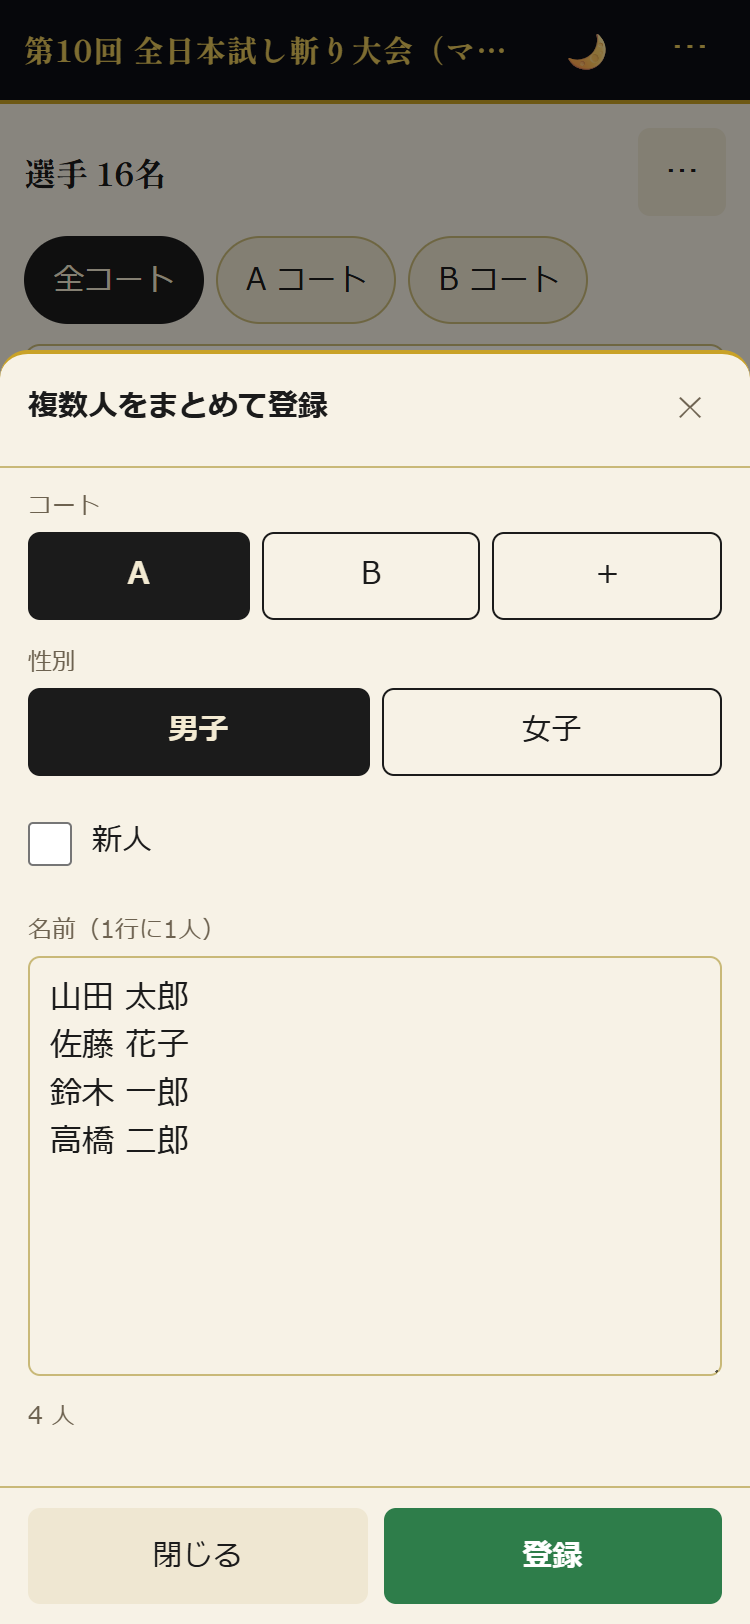
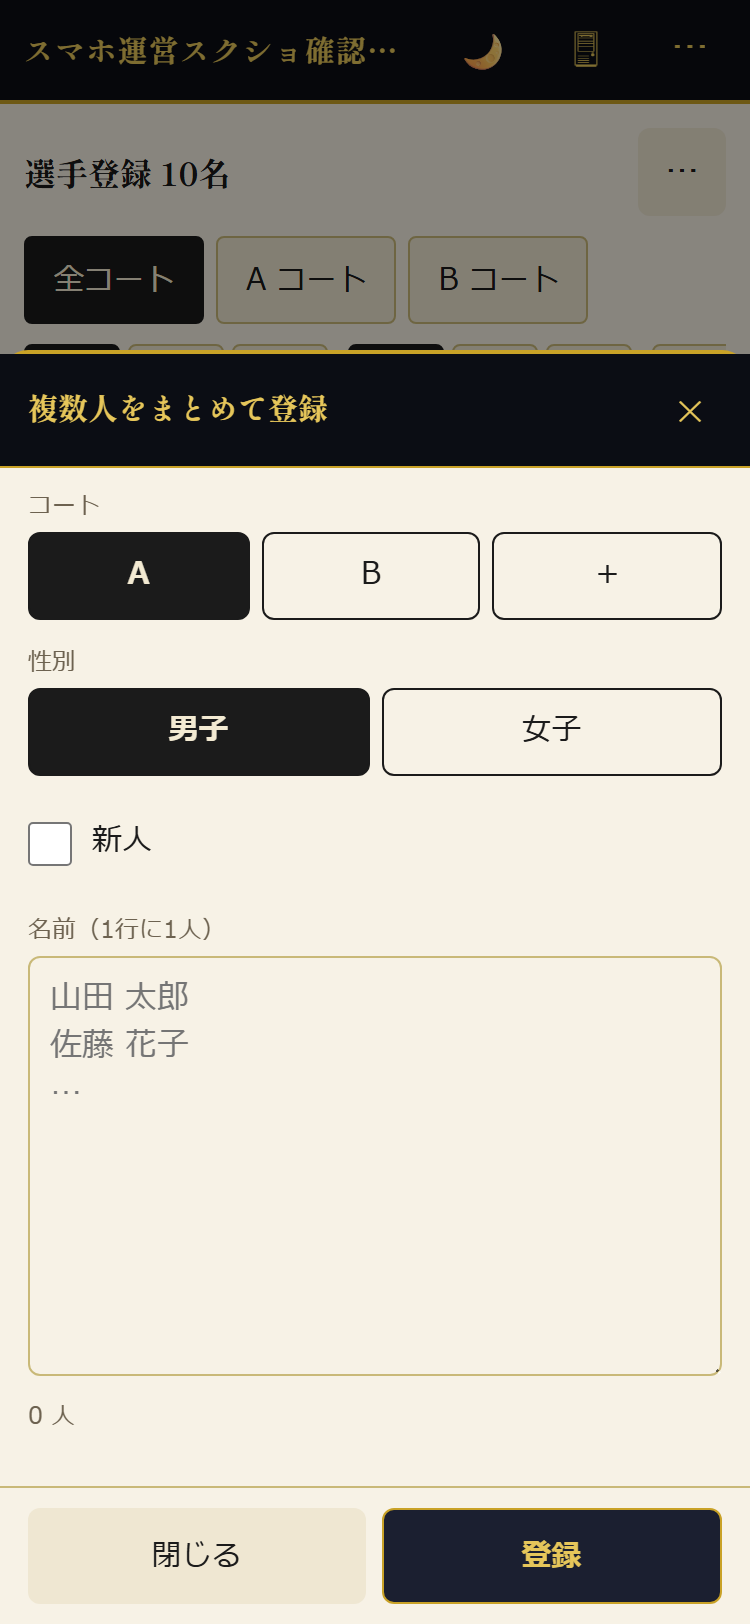
docs: スマホ運営のスクリーンショット10枚を撮り直す
admin_events / admin_new_event / admin_players / admin_players_menu /
admin_bulk / admin_player_form / admin_tech_sheet / admin_round /
admin_round_court_b / admin_results / admin_menu を現在のタブ名・画面で
撮り直す（375幅@2x、既存画像と同じ寸法）。確認用の大会2つ（選手5名・
ゼッケン/級位段位/レンタル入り・一巡目採点済み・二巡目生成済みの本会場、
アーカイブ確認用の1名大会）をAPI経由で作り、ヘッドレスChromeをCDPで
admin.html を開いて各タブ・シート・メニューを操作しながら撮影、確認後に
両方削除した（U の基本情報シート追加コミット fee278e が入るのを待ってから
実施）。

admin_events.png（📂 取り込む・⋯・アーカイブ欄）、admin_player_form.png
（ゼッケン・級位段位・レンタル）、admin_players.png（ゼッケン列）、
admin_menu.png（🏠 トップ・📝 基本情報・💾 大会をファイルに保存）の
figcaption と alt を更新。admin_round.png の figcaption の件数も新しい
撮影内容に合わせる。

diff --git a/help.html b/help.html
@@ -219,8 +219,8 @@
     </ul>
 
     <figure class="shot-mobile">
-      <img src="help/img/admin_events.png" loading="lazy" alt="運営画面の大会タブ。大会の一覧が並び、右上に「＋ 新規大会」ボタンがある。">
-      <figcaption>大会タブ。1件ごとに日付と人数が出ます。右の <span class="ui">⋯</span> から <span class="ui">💾 ファイルに保存</span> と <span class="ui">🗑 削除</span> を選べます。</figcaption>
+      <img src="help/img/admin_events.png" loading="lazy" alt="運営画面の大会タブ。見出しの右に「📂 取り込む」「＋ 新規大会」の2つのボタンがあり、大会ごとの行の右端に「⋯」がある。">
+      <figcaption>大会タブ。1件ごとに日付と人数が出ます。右の <span class="ui">⋯</span> から <span class="ui">💾 ファイルに保存</span> と <span class="ui">🗑 削除</span> を選べます。見出しの <span class="ui">📂 取り込む</span> はほかのサーバーで作った大会の取り込みです。アーカイブ済みの大会があるときは、一覧の末尾に <span class="ui">アーカイブ（n 件）</span> の見出しでまとまって出ます。</figcaption>
     </figure>
 
     <figure class="shot-mobile">
@@ -241,8 +241,8 @@
     <p>タブで <span class="ui">選手登録</span> を選びます。登録のしかたは3通りあります。</p>
 
     <figure class="shot-mobile">
-      <img src="help/img/admin_players.png" loading="lazy" alt="選手登録タブ。絞り込みのチップと検索欄、選手の表、右下の赤い「＋」ボタン。">
-      <figcaption>選手登録タブ。1人1行の表で、左から巡目・コート・性別・番号・名前・技①②③・新人・得点です。表は横にスクロールでき、名前の列は左に残ります。右下の赤い <span class="ui">＋</span> が1人ずつの追加、右上の <span class="ui">⋯</span> がまとめての登録です。</figcaption>
+      <img src="help/img/admin_players.png" loading="lazy" alt="選手登録タブ。絞り込みのチップと検索欄、ゼッケンの列を含む選手の表、右下の赤い「＋」ボタン。">
+      <figcaption>選手登録タブ。1人1行の表で、左から巡目・コート・性別・番号・名前・<span class="ui">ゼッケン</span>・技①②③・新人・得点です。表は横にスクロールでき、名前の列は左に残ります。右下の赤い <span class="ui">＋</span> が1人ずつの追加、右上の <span class="ui">⋯</span> がまとめての登録です。</figcaption>
     </figure>
 
     <h3>（a）1人ずつ登録する</h3>
@@ -261,8 +261,8 @@
     <div class="note"><span class="term">ゼッケン番号と級位・段位は、空のままでも登録できます。</span>PC 用の運営画面の <span class="ui">基本情報</span> で <span class="ui">ゼッケン番号を必須にする</span> / <span class="ui">級位・段位を必須にする</span> にチェックを入れると、一巡目にその項目が空の選手がいる間だけ <span class="ui">試合開始 ▶</span> で止まります（§2 の「当日の流れ」）。登録の途中で止められることはありません。</div>
 
     <figure class="shot-mobile">
-      <img src="help/img/admin_player_form.png" loading="lazy" alt="「選手を追加」のシート。名前、コート、性別、新人、技①②③の枠、保存ボタン。">
-      <figcaption>1人ずつの追加シート。技の枠は「①②③ をタップしてそれぞれ選ぶ」と書いてあるとおり、枠ごとに選び直せます。</figcaption>
+      <img src="help/img/admin_player_form.png" loading="lazy" alt="「選手を追加」のシート。名前、ゼッケン番号、級位・段位、コート、性別、新人、真剣レンタル、技①②③の枠、保存ボタン。">
+      <figcaption>1人ずつの追加シート。<span class="ui">ゼッケン番号</span>・<span class="ui">級位・段位</span>・<span class="ui">真剣レンタル</span> はどれも空・未チェックのままで登録できます。技の枠は「①②③ をタップしてそれぞれ選ぶ」と書いてあるとおり、枠ごとに選び直せます。</figcaption>
     </figure>
 
     <h3>（b）複数人をまとめて登録する</h3>
@@ -544,7 +544,7 @@
 
     <figure class="shot-mobile">
       <img src="help/img/admin_round.png" loading="lazy" alt="運営画面の試合進行タブ。一巡目の採点済み数、「二巡目を生成」「採点画面へ」、コート絞り込み、二巡目の選手と技の枠。">
-      <figcaption>試合進行タブ。<span class="ui">二巡目 8名　技 未入力 8</span> の行で、技がまだの人数が分かります。右上の <span class="ui">一巡目 30</span> はその選手の一巡目の得点です。</figcaption>
+      <figcaption>試合進行タブ。<span class="ui">二巡目 5名　技 未入力 5</span> の行で、技がまだの人数が分かります。行の右上の <span class="ui">一巡目 58</span> はその選手の一巡目の得点です。</figcaption>
     </figure>
 
     <figure class="shot-mobile">
@@ -797,8 +797,8 @@
     </ul>
 
     <figure class="shot-mobile">
-      <img src="help/img/admin_menu.png" loading="lazy" alt="運営画面の右上「⋯」メニュー。採点画面・技術リスト編集・順位表示・ヘルプの項目。">
-      <figcaption>運営画面の <span class="ui">⋯</span> メニュー。<span class="ui">❓ ヘルプ</span> は <span class="ui">🏆 順位表示</span> の下にあります。</figcaption>
+      <img src="help/img/admin_menu.png" loading="lazy" alt="運営画面の右上「⋯」メニュー。🏠 トップ・📝 基本情報・📋 採点画面・🗒 技術リスト編集・💾 大会をファイルに保存・🏆 順位表示・❓ ヘルプの項目。">
+      <figcaption>運営画面の <span class="ui">⋯</span> メニュー。<span class="ui">🏠 トップ</span> でトップページへ、<span class="ui">💾 大会をファイルに保存</span> で選択中の大会をファイルに書き出せます。<span class="ui">📝 基本情報</span> は大会を選んでいるときだけ出ます。<span class="ui">❓ ヘルプ</span> は <span class="ui">🏆 順位表示</span> の下にあります。</figcaption>
     </figure>
     <p><a class="back-to-toc" href="#toc">▲ 目次へ</a></p>
   </section>
